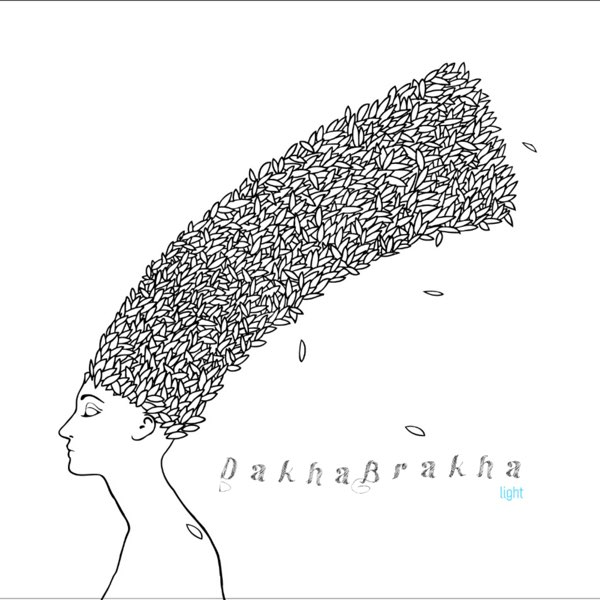
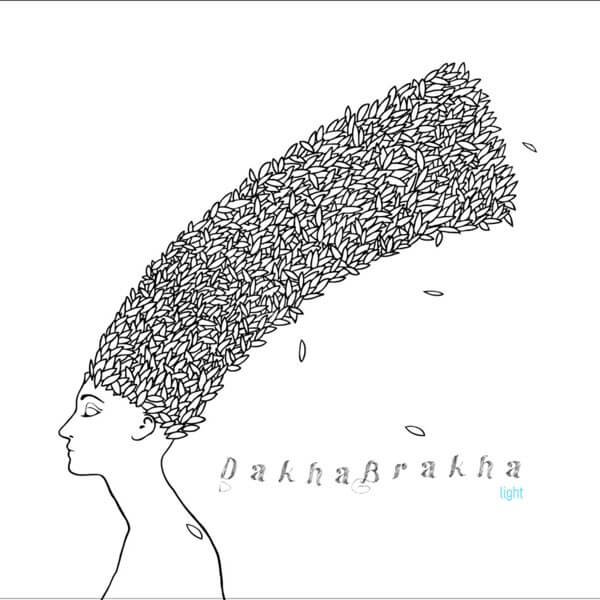
added responsive images

Changed region(s): [[0.15, 0.12, 0.87, 0.72]]

diff --git a/index.html b/index.html
@@ -79,7 +79,13 @@
         <div class="container about__container">
           <h2 class="section__title visually-hidden">About us</h2>
           <div class="about__first">
-            <img src="images/team.png" alt="Our team" />
+            <picture>
+              <source
+                srcset="./images/team.png 1x, ./images/team@2x.png 2x"
+                type="image/png"
+              />
+              <img src="images/team.png" alt="Our team" />
+            </picture>
           </div>
           <div class="about__second">
             <p>
@@ -101,11 +107,14 @@
           <div class="records__container">
             <article class="record__card">
               <div class="record__thumb">
-                <img
-                  src="images/light.jpg"
-                  alt="light dakhabrakha"
-                  class="record__img"
-                />
+                <picture>
+                  <source
+                    srcset="./images/light.jpg 1x, ./images/light@2x.jpg 2x"
+                    type="image/jpeg"
+                  />
+                  <img src="images/light.jpg" alt="light dakhabrakha" />
+                </picture>
+
                 <div class="record__overlay">
                   <a
                     href="#"
@@ -131,11 +140,20 @@
             </article>
             <article class="record__card">
               <div class="record__thumb">
-                <img
-                  src="images/brothers_in_arms.jpg"
-                  alt="brothers_in_arms dire_straits"
-                  class="record__img"
-                />
+                <picture>
+                  <source
+                    srcset="
+                      ./images/brothers_in_arms.jpg    1x,
+                      ./images/brothers_in_arms@2x.jpg 2x
+                    "
+                    type="image/jpeg"
+                  />
+                  <img
+                    src="images/brothers_in_arms.jpg"
+                    alt="brothers_in_arms dire_straits"
+                  />
+                </picture>
+
                 <div class="record__overlay">
                   <a
                     href="#"
@@ -162,11 +180,17 @@
             </article>
             <article class="record__card">
               <div class="record__thumb">
-                <img
-                  src="images/doolitle.jpg"
-                  alt="doolitle pixies"
-                  class="record__img"
-                />
+                <picture>
+                  <source
+                    srcset="
+                      ./images/doolitle.jpg    1x,
+                      ./images/doolitle@2x.jpg 2x
+                    "
+                    type="image/jpeg"
+                  />
+                  <img src="images/doolitle.jpg" alt="doolitle pixies" />
+                </picture>
+
                 <div class="record__overlay">
                   <a
                     href="#"
@@ -193,11 +217,17 @@
             </article>
             <article class="record__card">
               <div class="record__thumb">
-                <img
-                  src="images/sehnsucht.jpg"
-                  alt="sehnsucht rammstein"
-                  class="record__img"
-                />
+                <picture>
+                  <source
+                    srcset="
+                      ./images/sehnsucht.jpg    1x,
+                      ./images/sehnsucht@2x.jpg 2x
+                    "
+                    type="image/jpeg"
+                  />
+                  <img src="images/sehnsucht.jpg" alt="sehnsucht rammstein" />
+                </picture>
+
                 <div class="record__overlay">
                   <a
                     href="#"

diff --git a/styles.css b/styles.css
@@ -497,6 +497,15 @@ input:-webkit-autofill:focus {
     display: none;
   }
 
+  .hero {
+    background-image: linear-gradient(
+        to bottom,
+        rgba(47, 48, 58, 0.3),
+        rgba(47, 48, 58, 0.6)
+      ),
+      url(./images/hero_player@2x.jpg);
+  }
+
   .hero__title {
     font-size: 3rem;
   }
